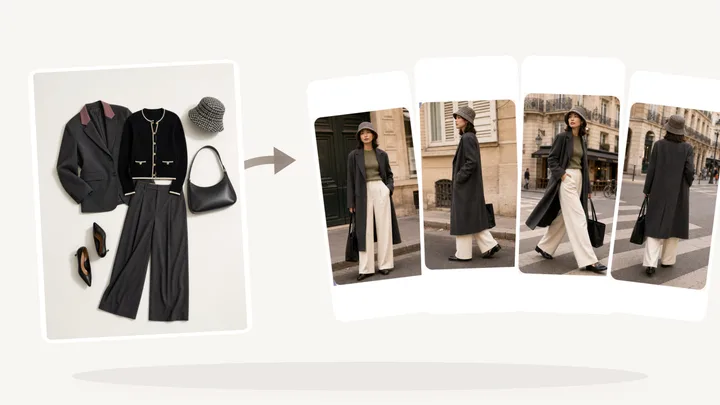
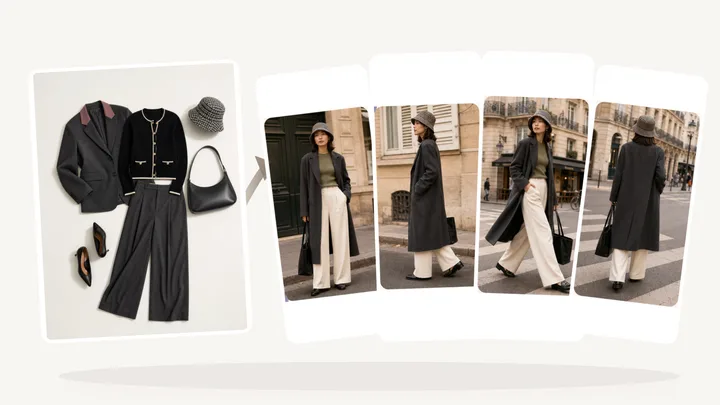
fix: densify uncropped try-on showcase cards

Changed region(s): [[0.3361, 0.2074, 1.0, 0.7704]]

diff --git a/docs/superpowers/plans/2026-08-16-tryon-showcase-density.md b/docs/superpowers/plans/2026-08-16-tryon-showcase-density.md
@@ -1,0 +1,119 @@
+# Try-On Showcase Density Implementation Plan
+
+> **For agentic workers:** REQUIRED SUB-SKILL: Use superpowers:subagent-driven-development (recommended) or superpowers:executing-plans to implement this plan task-by-task. Steps use checkbox (`- [ ]`) syntax for tracking.
+
+**Goal:** Increase the density of the approved 1600x900 try-on showcase while keeping the left flatlay complete and all four right-side model cards fully inside the canvas.
+
+**Architecture:** Keep the existing case ID, source manifest, composite renderer, CDN URL, and centered modal. Adjust only `TRYON_LAYOUT_PLANS['editorial-multi-angle-v4']`, move the decoration arrow/ground shadow to match, regenerate the full and thumbnail WebP, and extend the composite contract tests with explicit safe-bound checks.
+
+**Tech Stack:** Node.js, Sharp, Node test runner, Playwright, PowerShell deployment script.
+
+## Global Constraints
+
+- Do not touch AI-video files, routes, tests, runtime data, or its deployment window.
+- Keep `editorial-flatlay-v3.webp` complete with `contain`.
+- Keep all four model cards complete with `contain`; no cropped head, hem, shoe, or outer card edge.
+- Preserve `editorial-multi-angle-v4`, 1600x900 output, `?v=da45a36`, click-to-preview, and modal centering.
+
+---
+
+### Task 1: Add density and safe-bound regression assertions
+
+**Files:**
+- Modify: `test/home-showcase-composites.test.mjs`
+
+- [ ] **Step 1: Add explicit card-size assertions**
+
+After the existing `resultCards` rotation assertion, add:
+
+```js
+assert.ok(multiAngle.resultCards.every(card => card.width >= 250));
+assert.ok(multiAngle.resultCards.every(card => card.height >= 600));
+assert.ok(multiAngle.resultCards.at(-1).left + multiAngle.resultCards.at(-1).width <= 1600);
+```
+
+- [ ] **Step 2: Run the focused test and confirm the old layout fails**
+
+```powershell
+node --test test/home-showcase-composites.test.mjs
+```
+
+Expected: FAIL because the current result cards are 230px wide and two cards are below 600px high.
+
+- [ ] **Step 3: Commit the red test**
+
+```powershell
+git add test/home-showcase-composites.test.mjs
+git commit -m "test: require denser uncropped try-on cards"
+```
+
+### Task 2: Increase card density and regenerate assets
+
+**Files:**
+- Modify: `scripts/build-home-showcase-composites.mjs`
+- Regenerate: `public/images/home/tryon-showcase/editorial-multi-angle-v4.webp`
+- Regenerate: `public/images/.thumbs/home/tryon-showcase/editorial-multi-angle-v4.webp`
+
+- [ ] **Step 1: Update the four card placements**
+
+Use these exact placements:
+
+```js
+resultCards: Object.freeze([
+  Object.freeze({ left: 600, top: 154, width: 250, height: 600, rotation: -7, fit: 'contain' }),
+  Object.freeze({ left: 830, top: 116, width: 250, height: 640, rotation: -2, fit: 'contain' }),
+  Object.freeze({ left: 1060, top: 116, width: 250, height: 640, rotation: 2, fit: 'contain' }),
+  Object.freeze({ left: 1290, top: 154, width: 250, height: 600, rotation: 7, fit: 'contain' }),
+]),
+```
+
+- [ ] **Step 2: Reposition decoration elements**
+
+In `multiAngleDecoration()`, use the shorter path `M540 452 C560 416 575 390 590 372`, the arrowhead around `M566 346 L616 364 L588 402 Z`, and move the ground ellipse to `cx=820`, `rx=690` so it supports the enlarged composition without crossing card content.
+
+- [ ] **Step 3: Regenerate and inspect the composite**
+
+```powershell
+node scripts/build-home-showcase-composites.mjs
+```
+
+Open `public/images/home/tryon-showcase/editorial-multi-angle-v4.webp` and verify the left flatlay is complete, all four cards show head-to-shoe content, and no rotated card reaches the canvas edge.
+
+- [ ] **Step 4: Run focused tests**
+
+```powershell
+node --test test/home-showcase-composites.test.mjs test/ecommerce-ability-ui-contract.test.mjs
+```
+
+Expected: PASS.
+
+- [ ] **Step 5: Commit source and generated assets**
+
+```powershell
+git add scripts/build-home-showcase-composites.mjs public/images/home/tryon-showcase/editorial-multi-angle-v4.webp public/images/.thumbs/home/tryon-showcase/editorial-multi-angle-v4.webp
+git commit -m "fix: densify uncropped try-on showcase cards"
+```
+
+### Task 3: Verify and deploy
+
+- [ ] **Step 1: Run full tests, build, and checks**
+
+```powershell
+npm test
+npm run build
+npm run check
+```
+
+- [ ] **Step 2: Use Playwright at desktop and 390px mobile**
+
+Verify the public/local banner image is 1600x900, the document has no horizontal overflow, and the clicked preview dialog center delta is under 12px in both axes.
+
+- [ ] **Step 3: Deploy from a clean temporary worktree**
+
+```powershell
+.\scripts\deploy-production.ps1 -CanarySeconds 600 -PublicWarmupSeconds 180
+```
+
+- [ ] **Step 4: Verify production**
+
+Confirm health 200, `npm run audit:production` 27/27, the new image response, and a fresh browser rendering the enlarged complete card fan.

diff --git a/docs/superpowers/specs/2026-08-16-tryon-showcase-layout-design.md b/docs/superpowers/specs/2026-08-16-tryon-showcase-layout-design.md
@@ -9,6 +9,8 @@
 - 合成脚本的多角度成片使用完整的 `editorial-flatlay-v3.webp` 作为左侧商品素材，不再使用两侧已被裁切的 `product-flatlay.png`。
 - 左侧商品面板采用接近 3:4 的完整卡片，放大到与参考图相当的视觉权重；素材使用 `contain`，保证帽子、手袋、鞋履和服装边缘全部保留。
 - 右侧沿用正式生产的四张角度图，保持完整全身比例，以轻微左右旋转和重叠形成浅扇形；四张图之间保留单一弧形箭头，表达商品到上身结果的关系。
+- 密度调整继续保留左侧完整服饰，将右侧四张卡片放大并向左收拢；旋转后的外接边界必须全部落在 1600x900 画布内，保证衣摆、鞋履和最右卡片不被裁切。
+- 右侧卡片使用更接近原图的安全框比例，整体约 250-260px 宽、600-660px 高；箭头和底部阴影随新布局重定位，不压住卡片内容。
 - 合成画布仍为 1600x900，展示组件仍以 16:9 `contain` 显示并可点击放大；不改变案例 ID、任务来源或 CDN 版本参数。
 - 预览遮罩使用 grid 居中对齐，预览内容最大高度受视口约束；内容超过视口时由弹窗内部滚动，关闭、左右切换和键盘操作保持现状。
 
